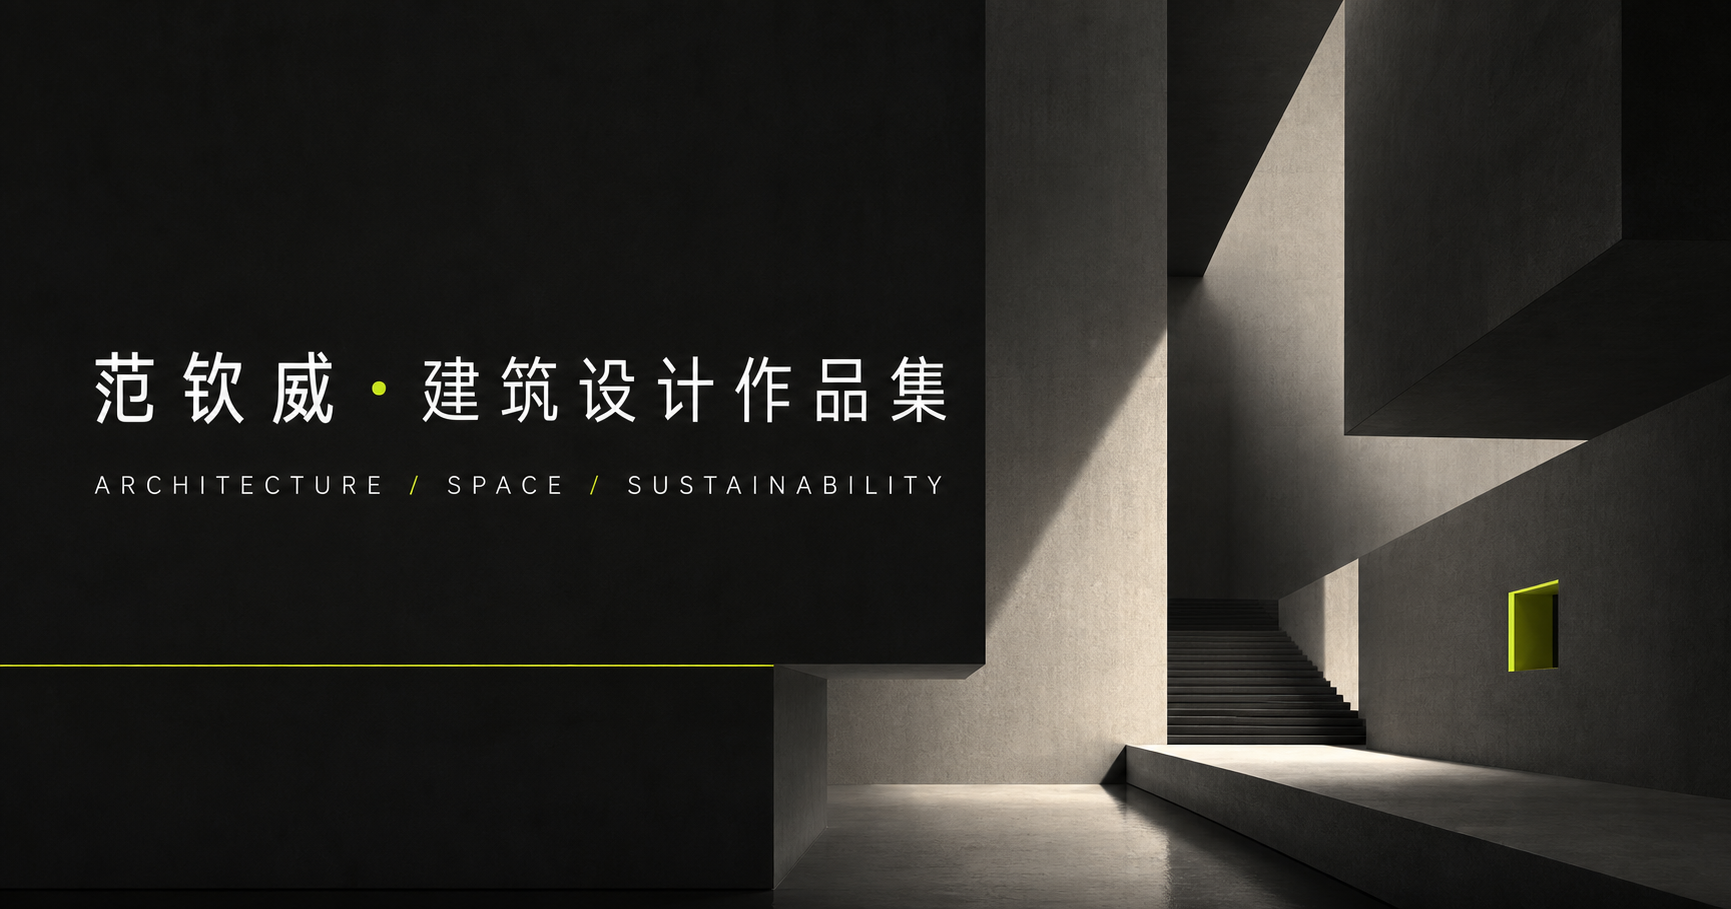
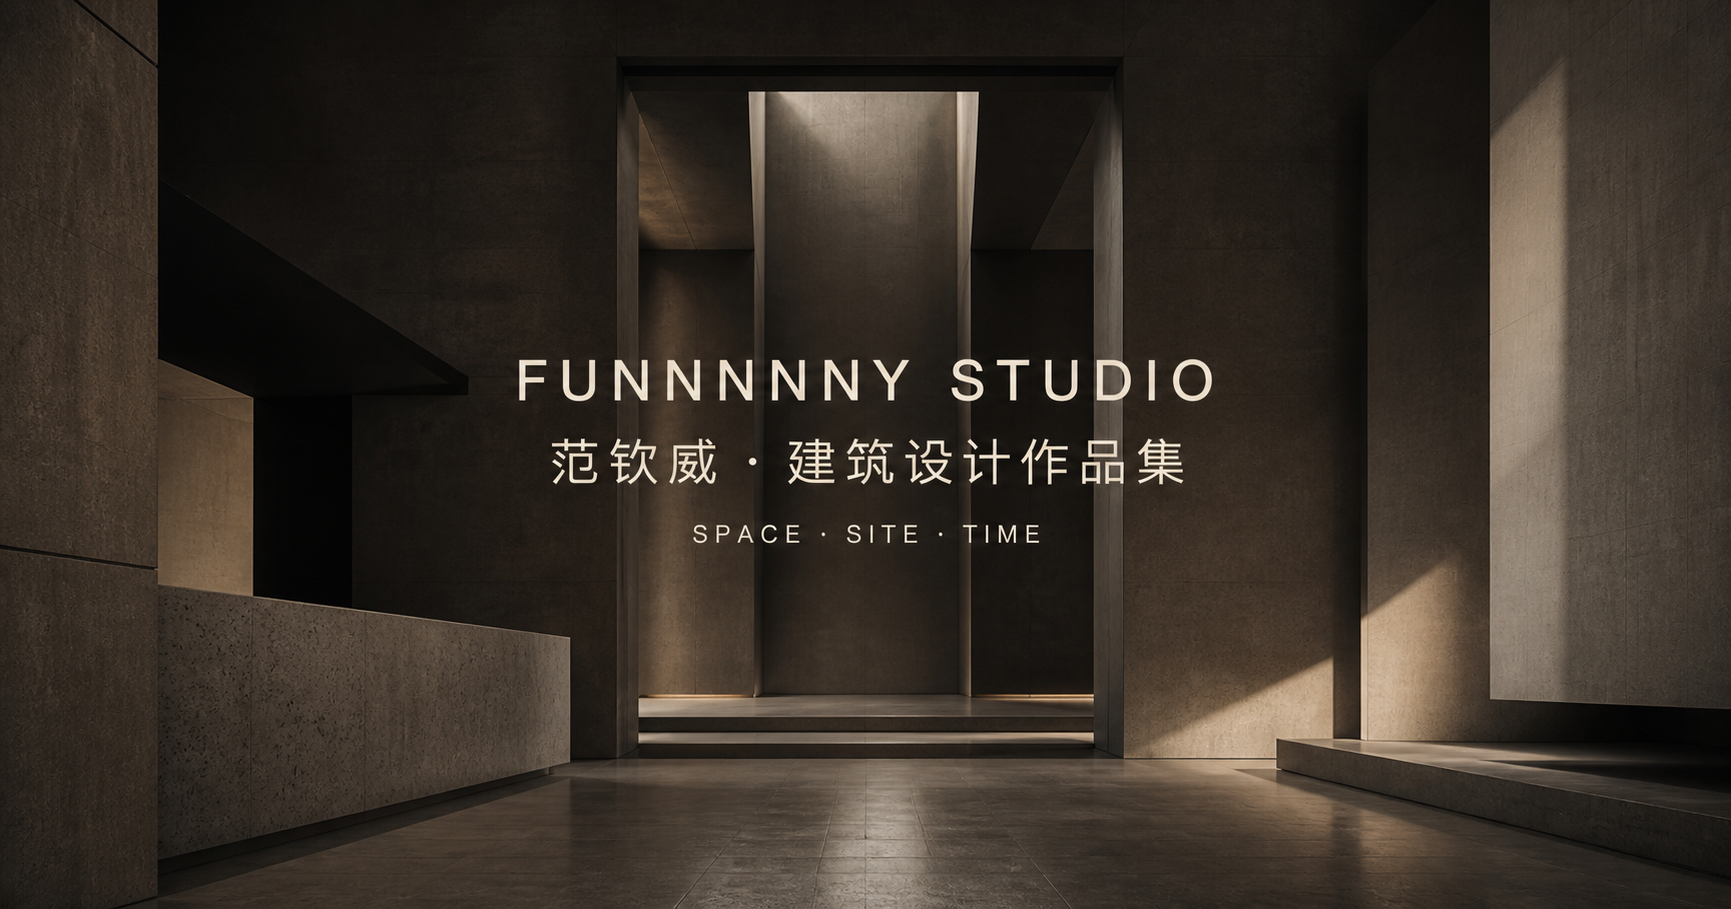
Refine studio hero layout

diff --git a/src/styles.css b/src/styles.css
@@ -1,6 +1,19 @@
-@import url('https://fonts.googleapis.com/css2?family=DM+Sans:wght@300;400;500&family=Noto+Sans+SC:wght@300;400;500;600&display=swap');
+@import url('https://fonts.googleapis.com/css2?family=Cormorant+Garamond:ital,wght@0,400;0,500;1,400&family=DM+Sans:wght@300;400;500&family=Noto+Sans+SC:wght@300;400;500;600&family=Noto+Serif+SC:wght@400;500&display=swap');
 
 :root{font-family:'DM Sans','Noto Sans SC',sans-serif;color:#171813;background:#f0f0e9;font-synthesis:none;--ink:#171813;--paper:#f0f0e9;--acid:#d6ff3f;--line:rgba(23,24,19,.18)}
 *{box-sizing:border-box}html{scroll-behavior:smooth}body{margin:0;background:var(--paper)}a{color:inherit;text-decoration:none}img{display:block;width:100%}button,a{cursor:pointer}.shell{width:min(1700px,calc(100% - 112px));margin-inline:auto}.section{padding:150px 0}.hero{height:100vh;min-height:760px;position:relative;color:#fff;overflow:hidden;background:#262822}.hero-video{position:absolute;inset:0;width:100%;height:100%;object-fit:cover;filter:saturate(.58) contrast(1.05)}.hero-shade{position:absolute;inset:0;background:linear-gradient(90deg,rgba(10,12,9,.65),rgba(10,12,9,.05) 68%),linear-gradient(0deg,rgba(10,12,9,.5),transparent 45%)}.nav{height:112px;display:flex;align-items:center;justify-content:space-between;position:relative;z-index:2;border-bottom:1px solid rgba(255,255,255,.25)}.brand{display:flex;align-items:center;gap:14px}.brand span{font-size:24px;font-weight:600;letter-spacing:-1px}.brand small{font-size:9px;line-height:1.2;letter-spacing:2px;width:54px}.nav nav{display:flex;gap:52px}.nav nav a{font-size:14px;opacity:.85;transition:.25s}.nav nav a:hover{opacity:1}.nav-contact{display:flex;gap:12px;align-items:center;border:1px solid rgba(255,255,255,.6);padding:13px 19px;border-radius:30px;font-size:13px}.hero-content{position:relative;height:calc(100% - 112px);display:flex;flex-direction:column;justify-content:flex-end;padding-bottom:48px}.eyebrow{font-size:11px;letter-spacing:3px}.hero h1,.contact h2{font-size:clamp(74px,7.1vw,128px);font-weight:300;line-height:.96;letter-spacing:-6px;margin:26px 0 58px}.hero h1 em,.contact h2 em{font-family:'Noto Sans SC';font-style:normal;font-weight:300;color:var(--acid)}.hero-bottom{display:flex;align-items:flex-end;justify-content:space-between;border-top:1px solid rgba(255,255,255,.35);padding-top:22px;font-size:14px;letter-spacing:1px}.hero-bottom p{margin:0;line-height:1.8}.hero-bottom span{opacity:.66;font-size:12px}.scroll-down{width:52px;height:52px;border-radius:50%;border:1px solid rgba(255,255,255,.6);display:grid;place-items:center}.section-heading{display:grid;grid-template-columns:34% 1fr;align-items:start;margin-bottom:88px}.section-heading>span{font-size:11px;letter-spacing:2px}.section-heading h2{font-size:clamp(48px,4.3vw,76px);font-weight:300;letter-spacing:-4px;line-height:1.1;margin:0}.about-grid{display:grid;grid-template-columns:28% 42% 1fr;gap:6%;align-items:start}.portrait-wrap{position:relative}.portrait-frame{position:relative;aspect-ratio:4/5;overflow:hidden;background:#ddd}.portrait-frame img{position:absolute;width:725%;max-width:none;left:-36%;top:-20%;filter:grayscale(1)}.image-note{font-size:9px;letter-spacing:1.8px;display:block;margin-top:12px}.bio .lead{font-size:27px;line-height:1.55;margin:0 0 36px;letter-spacing:-.8px}.bio>p:not(.lead){font-size:15px;line-height:2;color:#67685f;margin:0}.contact-lines{display:flex;flex-direction:column;gap:13px;margin-top:44px;padding-top:28px;border-top:1px solid var(--line)}.contact-lines a,.contact-lines span{display:flex;align-items:center;gap:12px;font-size:13px}.stats{border-top:1px solid var(--ink)}.stats div{padding:26px 0;border-bottom:1px solid var(--line);display:flex;align-items:end;justify-content:space-between}.stats strong{font-size:36px;font-weight:400;letter-spacing:-2px}.stats sup{font-size:15px}.stats span{font-size:11px;color:#77786e;letter-spacing:1px}.works{background:#171813;color:#ededE6}.works-heading{grid-template-columns:34% 1fr auto}.works-heading p{font-size:13px;color:#8d8e85;align-self:end;margin:0}.project{padding:0 0 100px}.project-image{height:min(66vw,860px);position:relative;overflow:hidden;background:#30322d}.project-image img{height:100%;object-fit:cover;filter:grayscale(.25) saturate(.7);transition:transform .8s ease,filter .5s}.project:hover img{transform:scale(1.02);filter:grayscale(0) saturate(.9)}.project-arrow{position:absolute;right:30px;top:30px;width:64px;height:64px;border-radius:50%;background:var(--acid);color:#171813;display:grid;place-items:center}.project-meta{display:grid;grid-template-columns:10% 1fr auto;padding-top:24px}.project-meta>span,.project-meta time{font-size:12px;color:#888a80}.project-meta h3{font-size:28px;font-weight:400;margin:0 0 9px}.project-meta p{font-size:12px;color:#888a80;margin:0}.strength-grid{margin-left:34%;display:grid;grid-template-columns:repeat(2,1fr);border-top:1px solid var(--ink);border-left:1px solid var(--line)}.strength-grid article{min-height:300px;padding:30px;border-right:1px solid var(--line);border-bottom:1px solid var(--line);display:flex;flex-direction:column}.strength-grid article>span{font-size:11px;color:#85867c}.strength-grid h3{font-size:28px;font-weight:400;margin:60px 0 15px}.strength-grid p{font-size:14px;line-height:1.8;color:#717269;max-width:390px;margin:0}.strength-grid svg{margin-top:auto}.contact{min-height:100vh;background:#292c26;color:#f2f3ec;display:flex;align-items:center}.contact-inner{padding:120px 0 40px}.contact h2{margin:40px 0 68px}.mail-link{display:inline-flex;align-items:center;gap:28px;font-size:20px;border-bottom:1px solid var(--acid);padding-bottom:12px;color:var(--acid)}.footer-line{margin-top:140px;padding-top:22px;border-top:1px solid rgba(255,255,255,.22);display:flex;justify-content:space-between;font-size:10px;letter-spacing:1.6px;color:#999c92}.footer-line a{color:#f3f4ed}@media(max-width:1000px){.shell{width:calc(100% - 48px)}.nav nav{display:none}.hero h1,.contact h2{letter-spacing:-3px}.section{padding:100px 0}.section-heading{grid-template-columns:1fr;gap:30px}.about-grid{grid-template-columns:1fr 1.5fr}.stats{grid-column:1/-1}.works-heading{grid-template-columns:1fr}.strength-grid{margin-left:0}.project-image{height:65vw}}@media(max-width:680px){.hero{min-height:650px}.nav{height:86px}.nav-contact{padding:10px 14px}.hero-content{height:calc(100% - 86px)}.hero h1,.contact h2{font-size:54px;letter-spacing:-2.8px}.about-grid{grid-template-columns:1fr}.bio .lead{font-size:22px}.strength-grid{grid-template-columns:1fr}.project-meta{grid-template-columns:13% 1fr}.project-meta time{display:none}.footer-line{gap:18px;flex-wrap:wrap}.section{padding:80px 0}}
 
 .portrait-frame img{position:static;width:100%;height:100%;max-width:100%;object-fit:cover;filter:grayscale(1)}
+
+/* Refined studio-style hero */
+.hero{min-height:720px}.hero-video{filter:saturate(.48) contrast(1.06) brightness(.78)}.hero-shade{background:linear-gradient(180deg,rgba(16,14,12,.46) 0%,rgba(16,14,12,.05) 34%,rgba(16,14,12,.18) 70%,rgba(16,14,12,.62) 100%)}
+.nav{height:80px;border-bottom:1px solid rgba(255,255,255,.16)}
+.brand{gap:13px;min-width:240px}.brand-mark{width:29px;height:24px;display:flex;flex-direction:column;justify-content:center;gap:4px}.brand-mark i{display:block;width:27px;height:3px;border:1px solid rgba(255,255,255,.9);border-width:1px 0;border-radius:50%;transform:rotate(7deg)}.brand-mark i:nth-child(2){transform:rotate(-5deg)}
+.brand-name{font-family:'Cormorant Garamond',serif;font-size:22px!important;font-weight:500!important;letter-spacing:.2px!important;white-space:nowrap}.brand-name b{font-family:'DM Sans',sans-serif;font-size:8px;font-weight:400;letter-spacing:2.2px;margin-left:7px;opacity:.72}
+.nav nav{position:absolute;left:50%;transform:translateX(-50%);gap:44px}.nav nav a{display:flex;flex-direction:column;align-items:center;gap:1px;line-height:1}.nav nav strong{font-family:'Noto Serif SC',serif;font-size:12px;font-weight:400}.nav nav small{font-size:7px;letter-spacing:1.2px;opacity:.58}
+.nav-contact{min-width:240px;justify-content:flex-end;border:0;padding:0;border-radius:0;font-family:'Noto Serif SC',serif;font-size:12px}.nav-contact small{font-family:'DM Sans',sans-serif;font-size:7px;letter-spacing:1px;opacity:.52;margin-left:-8px}.person-dot{width:12px;height:12px;border:1px solid currentColor;border-radius:50%;position:relative;margin-right:3px}.person-dot:after{content:'';position:absolute;left:-4px;right:-4px;bottom:-6px;height:7px;border:1px solid currentColor;border-bottom:0;border-radius:10px 10px 0 0}
+.hero-content{height:calc(100% - 80px);display:grid;place-items:center;padding:0;position:relative}.hero-center{text-align:center;transform:translateY(-1vh);text-shadow:0 2px 24px rgba(0,0,0,.25)}.hero-center .eyebrow{font-size:9px;letter-spacing:4px;margin:0 0 24px;opacity:.72}.hero h1{font-family:'Cormorant Garamond','Noto Serif SC',serif;font-size:clamp(82px,8.2vw,148px);font-weight:400;line-height:.8;letter-spacing:-5px;margin:0}.hero-slogan{font-family:'Noto Serif SC',serif;font-size:clamp(25px,2.2vw,38px);letter-spacing:7px;margin:26px 0 2px}.hero-slogan-en{font-size:9px;letter-spacing:4px;margin:0;color:rgba(255,255,255,.66)}
+.hero-identity{display:flex;flex-direction:column;align-items:center;gap:5px;margin-top:36px}.hero-identity strong{font-family:'Noto Serif SC',serif;font-size:13px;font-weight:400}.hero-identity span{font-size:8px;letter-spacing:2px;opacity:.7}.hero-identity small{font-size:10px;letter-spacing:1px;margin-top:5px;opacity:.55}
+.hero-content>.scroll-down{position:absolute;left:50%;bottom:24px;transform:translateX(-50%);width:auto;height:auto;border:0;border-radius:0;display:flex;flex-direction:column;align-items:center;gap:10px}.scroll-down>span{display:flex;flex-direction:column;gap:1px;font-family:'Noto Serif SC',serif;font-size:10px;letter-spacing:2px}.scroll-down>span small{font-family:'DM Sans',sans-serif;font-size:7px;letter-spacing:2px;opacity:.52}.scroll-down svg{border:1px solid rgba(255,255,255,.5);width:27px;height:39px;padding:9px 5px;border-radius:15px}
+@media(max-width:1000px){.brand,.nav-contact{min-width:auto}.nav nav{display:none}.hero h1{letter-spacing:-3px}.hero-slogan{letter-spacing:4px}}
+@media(max-width:680px){.nav{height:72px}.brand-mark{display:none}.brand-name{font-size:18px!important}.brand-name b{display:none}.nav-contact small,.person-dot{display:none}.hero-content{height:calc(100% - 72px)}.hero-center{transform:translateY(-3vh)}.hero-center .eyebrow{font-size:7px;letter-spacing:2.5px}.hero h1{font-size:64px;letter-spacing:-2px}.hero-slogan{font-size:22px;letter-spacing:3px}.hero-identity{margin-top:28px}.hero-content>.scroll-down{bottom:20px}}

diff --git a/src/App.jsx b/src/App.jsx
@@ -40,19 +40,34 @@ function App() {
         </video>
         <div className="hero-shade" />
         <header className="nav shell">
-          <a className="brand" href="#home" aria-label="返回首页"><span>FQW</span><small>ARCHITECTURE</small></a>
+          <a className="brand" href="#home" aria-label="FUNNNNNY STUDIO 返回首页">
+            <span className="brand-mark" aria-hidden="true"><i /><i /><i /></span>
+            <span className="brand-name">FUNNNNNY <b>STUDIO</b></span>
+          </a>
           <nav aria-label="主导航">
-            <a href="#about">关于</a><a href="#works">项目</a><a href="#strengths">能力</a>
+            <a href="#works"><strong>作品</strong><small>WORKS</small></a>
+            <a href="#about"><strong>经历</strong><small>PROFILE</small></a>
+            <a href="#strengths"><strong>能力</strong><small>EXPERTISE</small></a>
+            <a href="#contact"><strong>联系</strong><small>CONTACT</small></a>
           </nav>
-          <a className="nav-contact" href="#contact">联系我 <ArrowUpRight size={16} /></a>
+          <a className="nav-contact" href="#about"><span className="person-dot" />个人介绍 <small>ABOUT</small></a>
         </header>
         <div className="hero-content shell">
-          <p className="eyebrow">ARCHITECTURE · SPACE · SUSTAINABILITY</p>
-          <h1>以空间回应<br /><em>场地与时间</em></h1>
-          <div className="hero-bottom">
-            <p>范钦威<br /><span>建筑设计师 / 中国 · 湖南</span></p>
-            <a href="#about" className="scroll-down" aria-label="向下了解更多"><ArrowDown size={20} /></a>
+          <div className="hero-center">
+            <p className="eyebrow">FUNNNNNY STUDIO · ARCHITECTURE</p>
+            <h1>以空间回应</h1>
+            <p className="hero-slogan">场地与时间</p>
+            <p className="hero-slogan-en">SPACE · SITE · TIME</p>
+            <div className="hero-identity">
+              <strong>建筑设计师 · 范钦威</strong>
+              <span>ARCHITECT / QINWEI FAN</span>
+              <small>湖南工程学院 · 建筑学</small>
+            </div>
           </div>
+          <a href="#about" className="scroll-down" aria-label="向下了解更多">
+            <span>向下滚动<small>SCROLL DOWN</small></span>
+            <ArrowDown size={18} />
+          </a>
         </div>
       </section>
 

diff --git a/index.html b/index.html
@@ -4,14 +4,14 @@
     <meta charset="UTF-8" />
     <meta name="viewport" content="width=device-width, initial-scale=1.0" />
     <meta name="description" content="范钦威，建筑设计师个人作品集。关注可持续建筑、空间体验与在地表达。" />
-    <meta property="og:title" content="范钦威 — 建筑设计作品集" />
+    <meta property="og:title" content="FUNNNNNY STUDIO — 范钦威建筑设计作品集" />
     <meta property="og:description" content="建筑设计 / 可持续实践 / 空间研究" />
     <meta property="og:image" content="/og.png" />
     <meta name="twitter:card" content="summary_large_image" />
-    <meta name="twitter:title" content="范钦威 — 建筑设计作品集" />
+    <meta name="twitter:title" content="FUNNNNNY STUDIO — 范钦威建筑设计作品集" />
     <meta name="twitter:description" content="建筑设计 / 可持续实践 / 空间研究" />
     <meta name="twitter:image" content="/og.png" />
-    <title>范钦威 | 建筑设计作品集</title>
+    <title>FUNNNNNY STUDIO | 范钦威建筑设计作品集</title>
   </head>
   <body>
     <div id="root"></div>
